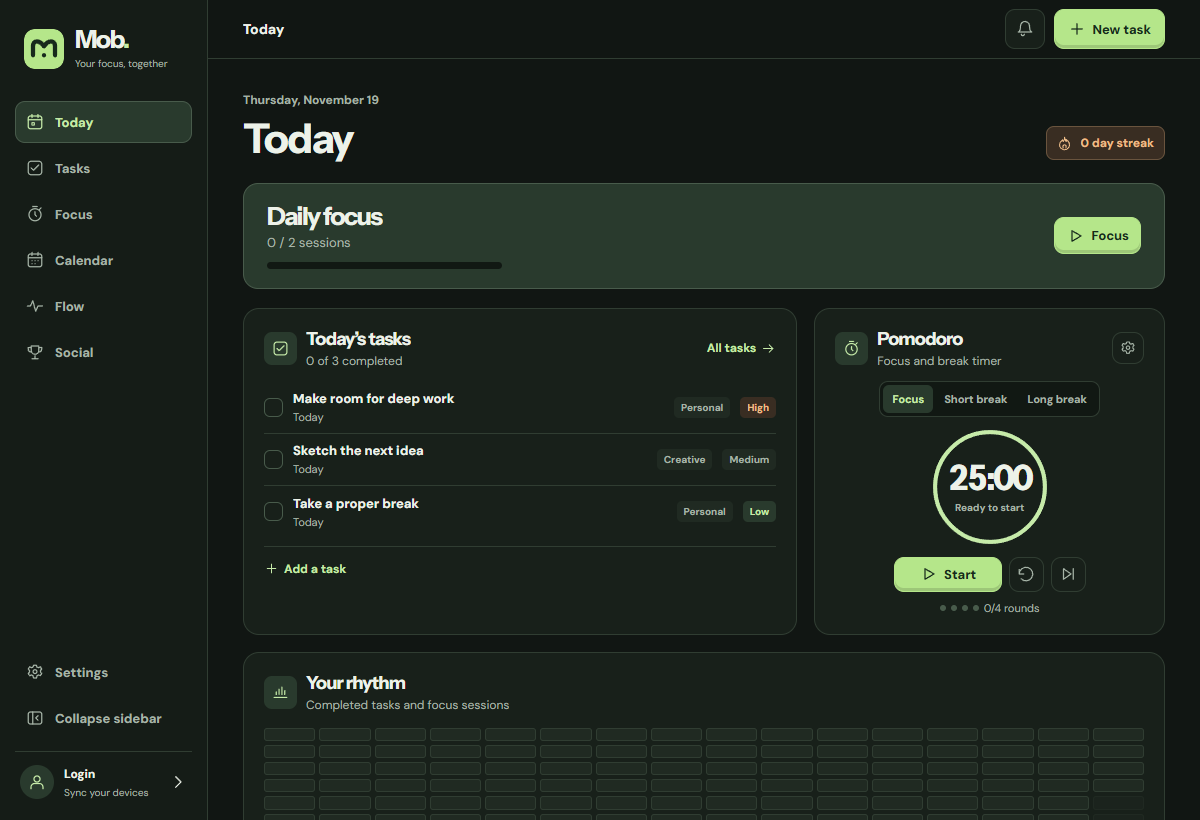
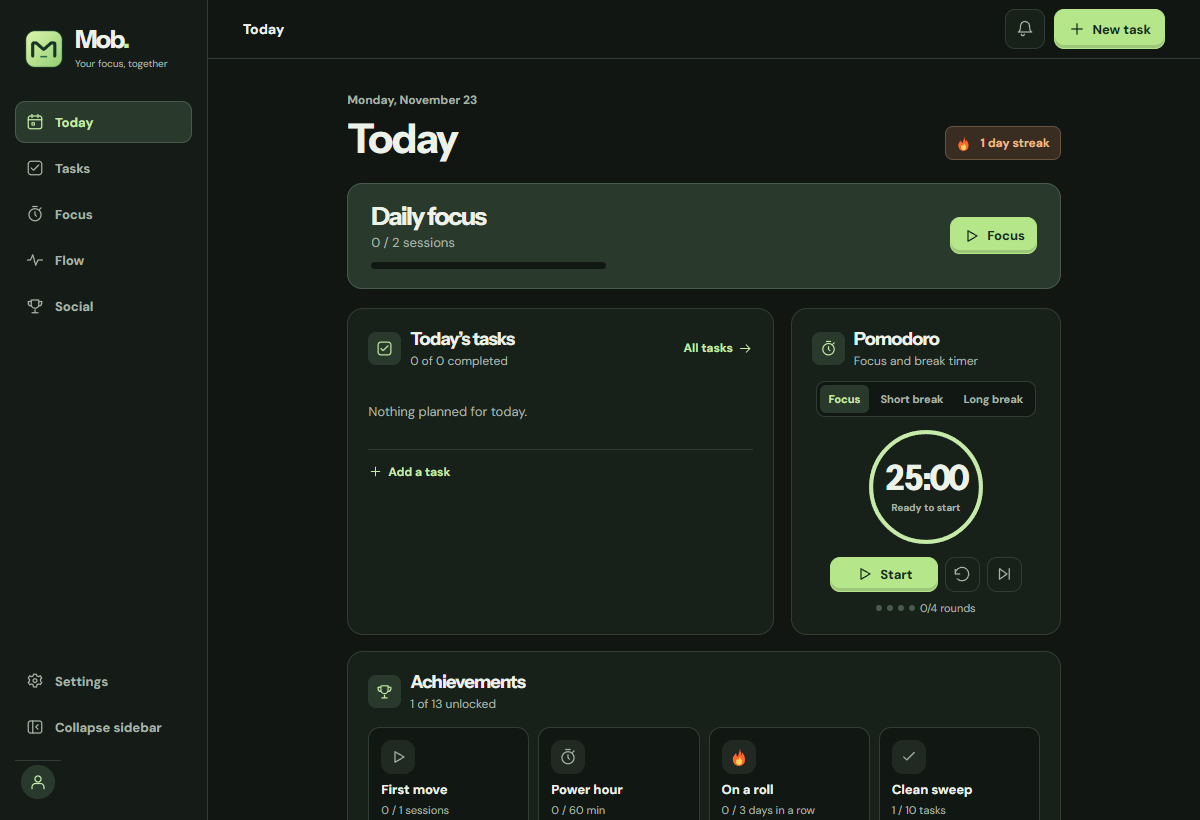
Refresh Mob branding and platform downloads

diff --git a/index.html b/index.html
@@ -33,7 +33,7 @@
         <a class="text-link" href="#downloads">Get the apps <span aria-hidden="true">↓</span></a>
       </div>
       <figure class="preview">
-        <img src="assets/workspace.png" width="1200" height="820" alt="The Mob workspace with today's tasks, a Pomodoro timer, and a focus activity calendar">
+        <img src="assets/workspace.png" width="1200" height="820" alt="The Mob workspace with tasks, achievements, and a Pomodoro timer">
       </figure>
     </section>
 
@@ -61,22 +61,22 @@
         <div class="download-list">
           <article class="download-row">
             <div class="download-item">
-              <div><h3>Windows</h3><p>x64 · v1.5.2</p></div>
-              <a class="button download-button" href="https://github.com/mckindobsidian-oss/Mob-Platform/releases/download/v1.5.2/Mob-Setup-v1.5.2.exe" aria-label="Download Mob for Windows" download>Download <span aria-hidden="true">↓</span></a>
+              <div><h3>Windows</h3><p>x64 · v1.5.3</p></div>
+              <a class="button download-button" href="https://github.com/mckindobsidian-oss/Mob-Platform/releases/download/v1.5.3/Mob-Setup-v1.5.3.exe" aria-label="Download Mob for Windows" download>Download <span aria-hidden="true">↓</span></a>
             </div>
             <details><summary>Installation help</summary><p>Quit Mob from the system tray before running the unsigned installer.</p></details>
           </article>
           <article class="download-row">
             <div class="download-item">
-              <div><h3>Android</h3><p>Android 8+ · v1.5.2</p></div>
-              <a class="button download-button" href="https://github.com/mckindobsidian-oss/Mob-Platform/releases/download/v1.5.2/Mob-Android-v1.5.2.apk" aria-label="Download Mob for Android" download>Download <span aria-hidden="true">↓</span></a>
+              <div><h3>Android</h3><p>Android 8+ · v1.5.3</p></div>
+              <a class="button download-button" href="https://github.com/mckindobsidian-oss/Mob-Platform/releases/download/v1.5.3/Mob-Android-v1.5.3.apk" aria-label="Download Mob for Android" download>Download <span aria-hidden="true">↓</span></a>
             </div>
             <details><summary>Installation help</summary><p>Open the debug-signed APK and allow installation from your download source if Android asks.</p></details>
           </article>
           <article class="download-row">
             <div class="download-item">
-              <div><h3>Browser extension</h3><p>Chrome and Edge · v1.6.4</p></div>
-              <a class="button download-button" href="https://github.com/mckindobsidian-oss/Mob-Platform/releases/download/v1.5.2/Mob-Browser-Extension-v1.6.4.zip" aria-label="Download the Mob browser extension" download>Download <span aria-hidden="true">↓</span></a>
+              <div><h3>Browser extension</h3><p>Chrome and Edge · v1.6.5</p></div>
+              <a class="button download-button" href="https://github.com/mckindobsidian-oss/Mob-Platform/releases/download/v1.5.3/Mob-Browser-Extension-v1.6.5.zip" aria-label="Download the Mob browser extension" download>Download <span aria-hidden="true">↓</span></a>
             </div>
             <details><summary>Installation help</summary><p>Extract the ZIP, open your browser’s Extensions page, enable Developer mode, and choose Load unpacked. Sign in to Mob and open Flow. Mob will ask you to enable browser activity.</p></details>
           </article>
@@ -87,8 +87,8 @@
 
   <footer class="site-footer wrap">
     <a class="brand" href="./" aria-label="Mob home"><img src="assets/mob-mark.svg" width="28" height="28" alt="">Mob</a>
-    <p>Made by Lakshya and Khushaank.</p>
-    <nav aria-label="Legal"><a href="https://usemob.netlify.app/privacy.html">Privacy</a> · <a href="https://usemob.netlify.app/terms.html">Terms</a></nav>
+    <p>Created and maintained by Lakshya.</p>
+    <nav aria-label="Legal"><a href="https://usemob.netlify.app/privacy.html">Privacy</a> · <a href="https://usemob.netlify.app/terms.html">Terms of use</a> · <a href="https://usemob.netlify.app/metiq-credits.html">Credits</a></nav>
     <small>© <span id="year">2026</span> Mob</small>
   </footer>
   <script src="site.js" defer></script>

diff --git a/style.css b/style.css
@@ -144,3 +144,11 @@ details p { margin-top: .5rem; max-width: 30rem; }
 @media (prefers-reduced-motion: reduce) {
   html { scroll-behavior: auto; }
 }
+
+.loading-preview {
+  background: linear-gradient(112deg, #182b21 30%, #294336 50%, #182b21 70%);
+  background-size: 220% 100%;
+  animation: preview-shimmer 1.4s linear infinite;
+}
+@keyframes preview-shimmer { to { background-position: -220% 0; } }
+@media (prefers-reduced-motion: reduce) { .loading-preview { animation: none; } }

diff --git a/site.js b/site.js
@@ -1,1 +1,9 @@
 document.getElementById('year').textContent = new Date().getFullYear();
+
+const preview = document.querySelector('img[src="assets/workspace.png"]');
+if (preview && !preview.complete) {
+  preview.classList.add("loading-preview");
+  const finish = () => preview.classList.remove("loading-preview");
+  preview.addEventListener("load", finish, { once: true });
+  preview.addEventListener("error", finish, { once: true });
+}
